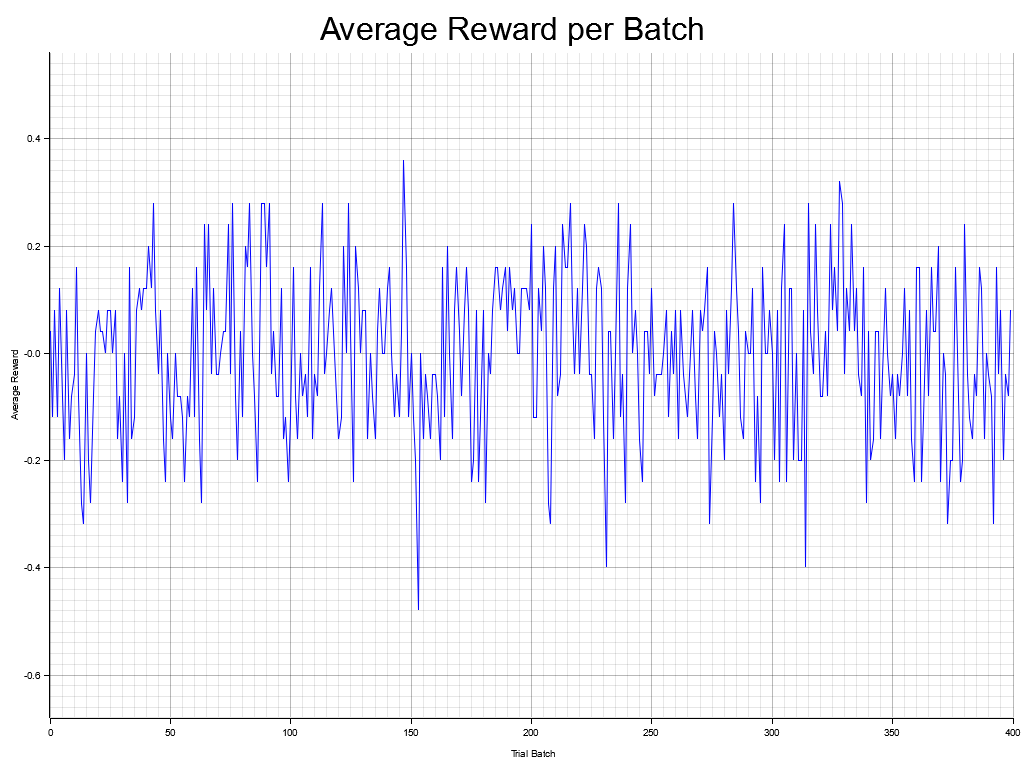
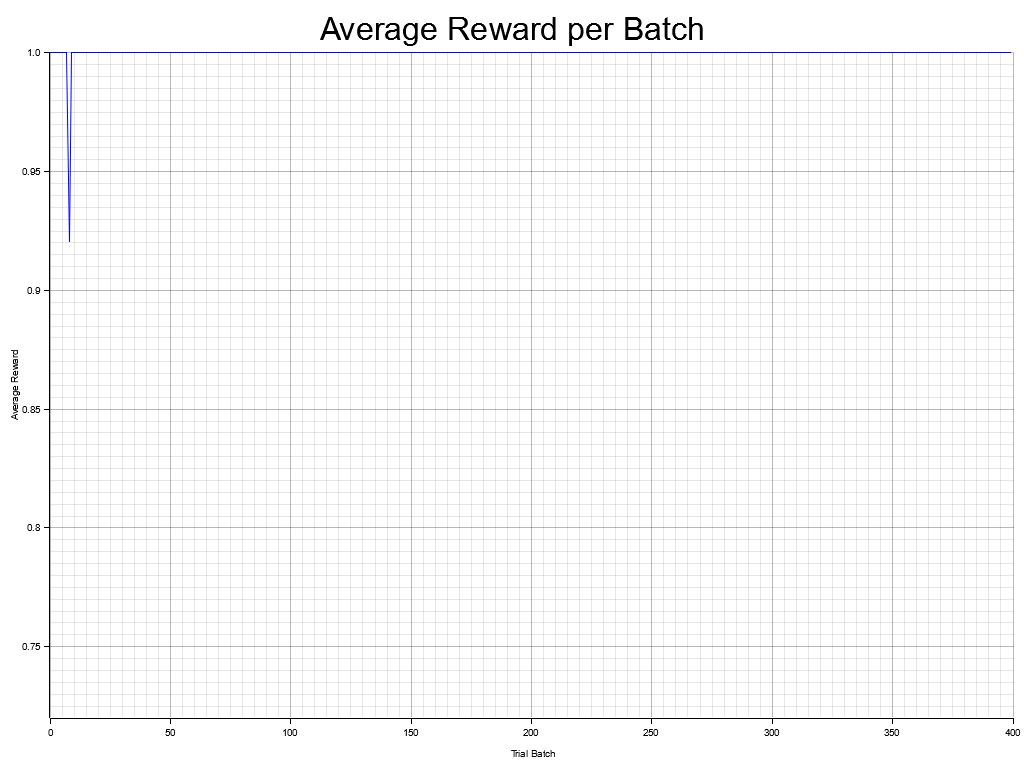
Adjust neuron parameters for improved dynamics and update network initialization for variability

Changed region(s): [[0.0312, 0.0625, 1.0, 0.9375]]

diff --git a/src/network.rs b/src/network.rs
@@ -1,10 +1,10 @@
+use crate::constants::{MAX_NEURON_THRESHOLD, MIN_NEURON_THRESHOLD};
 use crate::neuron::{Neuron, NeuronBehavior};
 use crate::synapse::{ChemicalSynapse, Synapse};
-use plotters::prelude::*;
-use std::sync::{Arc, RwLock};
-use rand::Rng;
-use crate::constants::{MAX_NEURON_THRESHOLD, MIN_NEURON_THRESHOLD};
 use crate::utils::get_clamped_normal;
+use plotters::prelude::*;
+use rand::Rng;
+use std::sync::{Arc, RwLock};
 
 #[derive(Clone)]
 pub struct Network {
@@ -13,14 +13,20 @@ pub struct Network {
 }
 
 impl Network {
-    pub fn new(neurons: Vec<Arc<RwLock<Neuron>>>, synapses: Vec<Arc<RwLock<ChemicalSynapse>>>) -> Self {
+    pub fn new(
+        neurons: Vec<Arc<RwLock<Neuron>>>,
+        synapses: Vec<Arc<RwLock<ChemicalSynapse>>>,
+    ) -> Self {
         Network { neurons, synapses }
     }
 
     pub fn create_dense(num_neurons: usize, rng: &mut impl Rng) -> Self {
         let mut neurons = Vec::with_capacity(num_neurons);
         for i in 0..num_neurons {
-            neurons.push(Arc::new(RwLock::new(Neuron::new(get_clamped_normal(MIN_NEURON_THRESHOLD, MAX_NEURON_THRESHOLD, rng), i))));
+            neurons.push(Arc::new(RwLock::new(Neuron::new(
+                get_clamped_normal(MIN_NEURON_THRESHOLD, MAX_NEURON_THRESHOLD, rng),
+                i,
+            ))));
         }
 
         let mut synapses = Vec::new();
@@ -30,10 +36,22 @@ impl Network {
                     let synapse = Arc::new(RwLock::new(ChemicalSynapse::new(
                         neurons.get(pre).unwrap().clone(),
                         neurons.get(post).unwrap().clone(),
-                        rng
+                        rng,
                     )));
-                    neurons.get(pre).unwrap().write().unwrap().exiting_synapses.push(synapse.clone());
-                    neurons.get(post).unwrap().write().unwrap().entering_synapses.push(synapse.clone());
+                    neurons
+                        .get(pre)
+                        .unwrap()
+                        .write()
+                        .unwrap()
+                        .exiting_synapses
+                        .push(synapse.clone());
+                    neurons
+                        .get(post)
+                        .unwrap()
+                        .write()
+                        .unwrap()
+                        .entering_synapses
+                        .push(synapse.clone());
                     synapses.push(synapse);
                 }
             }
@@ -81,13 +99,42 @@ impl VisualizeNetwork for Network {
             "Synapse weights: min={:.4}, max={:.4}, avg={:.4}",
             min_w, max_w, avg_w
         );
+
+        // If it has less than 10 neurons create a connectivity matrix
+        if self.neurons.len() <= 10 {
+            println!("Connectivity Matrix:");
+            let n = self.neurons.len();
+            let mut matrix = vec![vec![0.0; n]; n];
+            for synapse in &self.synapses {
+                let s = synapse.read().unwrap();
+                let pre_id = s.get_presynaptic_neuron().read().unwrap().id;
+                let post_id = s.get_postsynaptic_neuron().read().unwrap().id;
+                matrix[pre_id][post_id] = s.weight;
+            }
+            // Add headers
+            println!("Columns are Post-synaptic Neurons, Rows are Pre-synaptic Neurons");
+            for i in 0..n {
+                print!("{:>5} ", i);
+            }
+            println!();
+            for row in matrix {
+                for val in row {
+                    print!("{:>5.2} ", val);
+                }
+                println!();
+            }
+        }
     }
 
     fn plot_synapse_weights(&self, path: &str) -> Result<(), Box<dyn std::error::Error>> {
         let root = BitMapBackend::new(path, (1024, 768)).into_drawing_area();
         root.fill(&WHITE)?;
 
-        let weights: Vec<f32> = self.synapses.iter().map(|s| s.read().unwrap().get_weight()).collect();
+        let weights: Vec<f32> = self
+            .synapses
+            .iter()
+            .map(|s| s.read().unwrap().get_weight())
+            .collect();
         if weights.is_empty() {
             return Ok(());
         }

diff --git a/src/main.rs b/src/main.rs
@@ -64,15 +64,16 @@ fn plot_reward_over_time(
 
 fn main() {
     println!("Spiking Neural Network Simulation");
-    let mut rng = StdRng::seed_from_u64(42);
-    let network = Network::create_dense(50, &mut rng);
+    //let mut rng = StdRng::seed_from_u64(42); // Fixed seed for reproducibility
+    let mut rng = thread_rng(); // Non-deterministic seed for variability
+    let network = Network::create_dense(100, &mut rng);
     let mut simulation = Simulation::new(1.0, network.neurons.clone());
 
     network.plot_synapse_weights("synapse_weights_start.png").unwrap();
 
     const INPUT_NEURON_A_IDX: usize = 0; // "Go" signal
     const INPUT_NEURON_B_IDX: usize = 1; // "No-Go" signal
-    const OUTPUT_NEURON_IDX: usize = 9; // Target output
+    const OUTPUT_NEURON_IDX: usize = 2; // Target output
     const REWARD_MAGNITUDE: f32 = 1.0; // Changed to f32
 
     const NUM_TRIALS: u32 = 20_000;
@@ -100,10 +101,15 @@ fn main() {
             network.neurons[OUTPUT_NEURON_IDX].read().unwrap().time_of_last_fire()
         };
 
+        // pct_rand should decrease exponentially over trials
+        let pct_rand = (-0.3 * (trial as f32)).exp();
+
         // --- This is the inner trial loop ---
         for _ in 0..TRIAL_WINDOW_STEPS {
             simulation.input_external_stimuli(network.neurons[input_idx].clone(), 1.0);
-            //simulation.random_noise(-1.0, 1.0, 0.01);
+            if pct_rand > 0.0001 {
+                simulation.random_noise(-pct_rand, pct_rand, pct_rand, &mut rng);
+            }
             simulation.step();
             // DO NOT apply reward here
         }
@@ -118,7 +124,7 @@ fn main() {
         let reward: f32;
         if is_go_signal {
             if output_spiked_during_trial {
-                reward = REWARD_MAGNITUDE; // Correct: "Go" and it spiked
+                reward = REWARD_MAGNITUDE * 5.0; // Correct: "Go" and it spiked
             } else {
                 reward = -REWARD_MAGNITUDE; // Correct: "Go" and it didn't spike
             }
@@ -174,6 +180,7 @@ fn main() {
     }
 
     network.plot_synapse_weights("synapse_weights_end.png").unwrap();
+    network.describe();
 
     println!("\nCheck synapse_weights_start.png, synapse_weights_end.png, and reward_over_time.png.");
     println!("If learning occurred, you should see a rising trend in the average rewards.");

diff --git a/src/constants.rs b/src/constants.rs
@@ -4,9 +4,9 @@ pub const MIN_SYNAPSE_WEIGHT: f32 = -1.0;
 pub const MAX_SYNAPSE_WEIGHT: f32 = 1.0;
 pub const MIN_REFRACTORY_PERIOD_MS: f32 = 3.0; // Minimum neuron refractory period in ms
 pub const MAX_REFRACTORY_PERIOD_MS: f32 = 10.0; //
-pub const MIN_NEURON_DECAY_RATE: f32 = 0.15; // Minimum neuron decay rate
+pub const MIN_NEURON_DECAY_RATE: f32 = 0.015; // Minimum neuron decay rate
 pub const MAX_NEURON_DECAY_RATE: f32 = 0.05;
 pub const MIN_NEURON_THRESHOLD: f32 = 1.0; // Minimum neuron firing threshold
 pub const MAX_NEURON_THRESHOLD: f32 = 1.0; // Maximum neuron
-pub const REWARD_AVERAGE_DURATION: f32 = 1000.0; // 20 ms
-pub const LEARNING_RATE: f32 = 0.001;
+pub const REWARD_AVERAGE_DURATION: f32 = 10.0; // 20 ms
+pub const LEARNING_RATE: f32 = 0.01;

diff --git a/src/reward_system.rs b/src/reward_system.rs
@@ -34,7 +34,7 @@ impl RewardSystem {
         // We will iterate all the synapses so only send synapses which have been active lately.
         let average_reward = self.average_reward.get_mean(time).unwrap_or(0.0);
         let delta_reward = self.last_reward - average_reward;
-        if delta_reward == 0.0 {return}
+        if delta_reward.abs() < 0.01 {return}
 
         let mut delta_sum = 0.0;
         for spike_event in spike_events {
